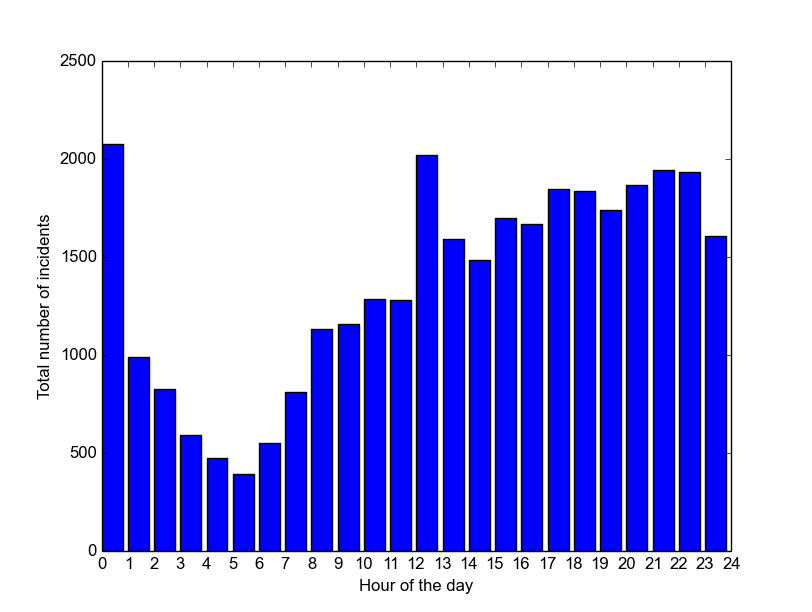
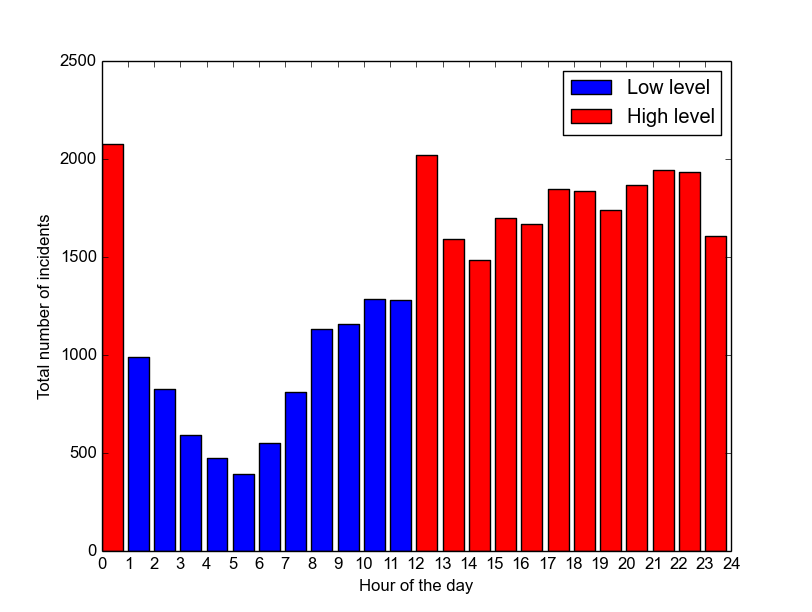
analysis improvement

Changed region(s): [[0.4926, 0.2484, 0.8929, 0.9003], [0.6773, 0.0931, 0.8929, 0.2484], [0.1232, 0.2173, 0.1539, 0.9003]]

diff --git a/plot2.py b/plot2.py
@@ -5,6 +5,8 @@ import matplotlib.pyplot as plt
 
 input_file = "./seattle_incidents_summer_2014.csv"
 
+selected_hours = range(12, 24)
+selected_hours.append(0)
 data_dict = {}
 with open(input_file, 'rb') as csvfile:
     csvcontent = csv.reader(csvfile, delimiter=",")
@@ -21,18 +23,14 @@ with open(input_file, 'rb') as csvfile:
             mytime = time.strptime(row[colmap['Occurred Date or Date Range Start']], '%m/%d/%Y %I:%M:%S %p')
             mytype = row[colmap['Summarized Offense Description']]
             myhour = int(time.strftime('%H', mytime))
-            if myhour in data_dict:
-                if mytype in data_dict[myhour]:
-                    data_dict[myhour][mytype] += 1
+            if myhour in selected_hours:
+                if mytype in data_dict:
+                    data_dict[mytype] += 1
                 else:
-                    data_dict[myhour][mytype] = 1
-            else:
-                data_dict[myhour] = {}
-                data_dict[myhour][mytype] = 1
-    tmp_dict = data_dict[0]
+                    data_dict[mytype] = 1
     plot_dict = {}
     n = 0
-    for key, value in sorted(tmp_dict.iteritems(), key=lambda (k,v): (v,k), reverse=True):
+    for key, value in sorted(data_dict.iteritems(), key=lambda (k,v): (v,k), reverse=True):
         n += 1
         if n <= 5:
             plot_dict[key] = value

diff --git a/plot1.py b/plot1.py
@@ -24,7 +24,10 @@ with open(input_file, 'rb') as csvfile:
             time_data.append(mytime)
             type_data.append(mytype)
     x = range(24)
-    y = list()
+    x1 = list()
+    x2 = list()
+    y1 = list()
+    y2 = list()
     y_dict = {}
     for mytime in time_data:
         h = int(time.strftime('%H', mytime))
@@ -33,8 +36,15 @@ with open(input_file, 'rb') as csvfile:
         else:
             y_dict[h] = 1
     for var in x:
-        y.append(y_dict[var])
-    plt.bar(x,y)
+        if y_dict[var] < 1400:
+            y1.append(y_dict[var])
+            x1.append(var)
+        else:
+            y2.append(y_dict[var])
+            x2.append(var)
+    ll = plt.bar(x1,y1)
+    hl = plt.bar(x2,y2,color='r')
+    plt.legend((ll[0], hl[0]), ('Low level', 'High level'))
     plt.xlim(0, 24)
     plt.xticks(range(25))
     plt.xlabel('Hour of the day')
